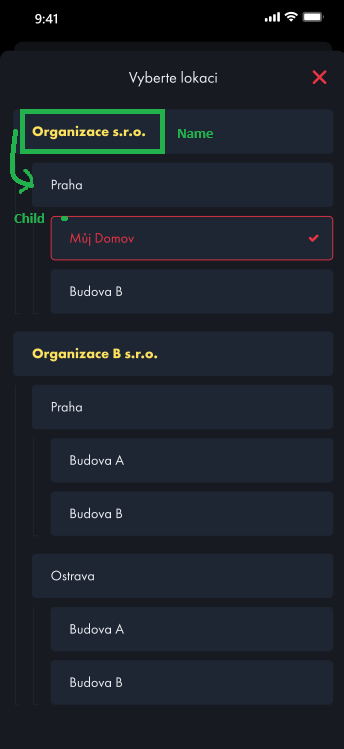
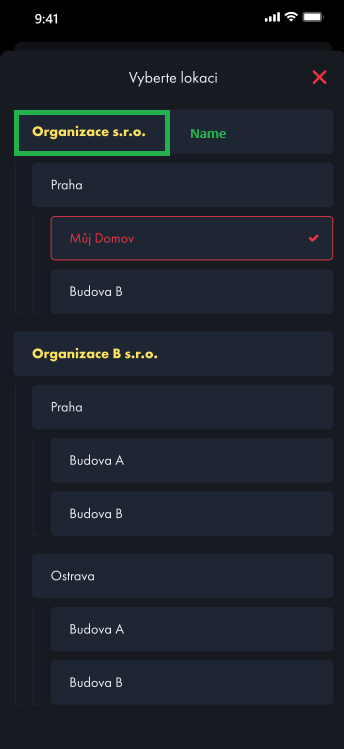
Added images

Changed region(s): [[0.0291, 0.1228, 0.4942, 0.3071], [0.5233, 0.1535, 0.6686, 0.1842], [0.1744, 0.2764, 0.2035, 0.3071]]

diff --git a/Endpoints/Organization.md b/Endpoints/Organization.md
@@ -14,6 +14,8 @@
 ]
 ```
 
+![TreeOrg](../Images/Tree.png "TreeOrg")
+
 # Tree
 
 - Endpoint for obtainting users tree
@@ -45,8 +47,6 @@
 ]
 ```
 
-![Tree](../Images/Tree.png "Tree")
-
 # TreeNodeTypes
 
 - Endpoint for obtainting all possible node types in tree
@@ -65,3 +65,5 @@
   }
 ]
 ```
+
+![TreeChildren](../Images/TreeChildren.png "TreeChildren")
